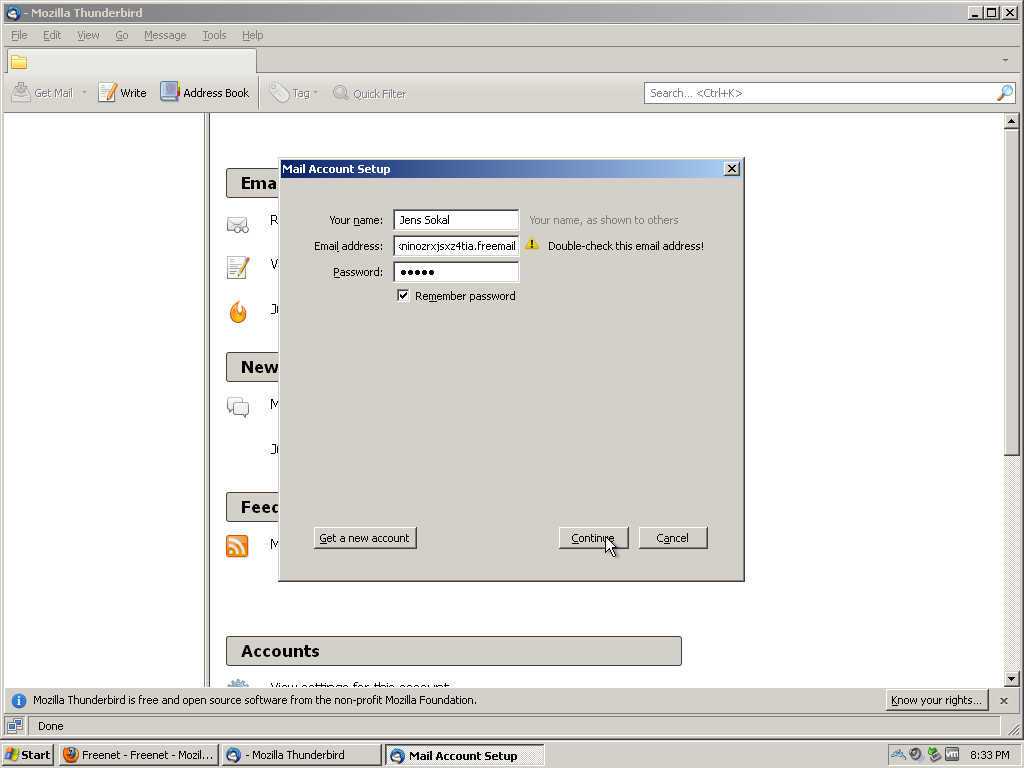
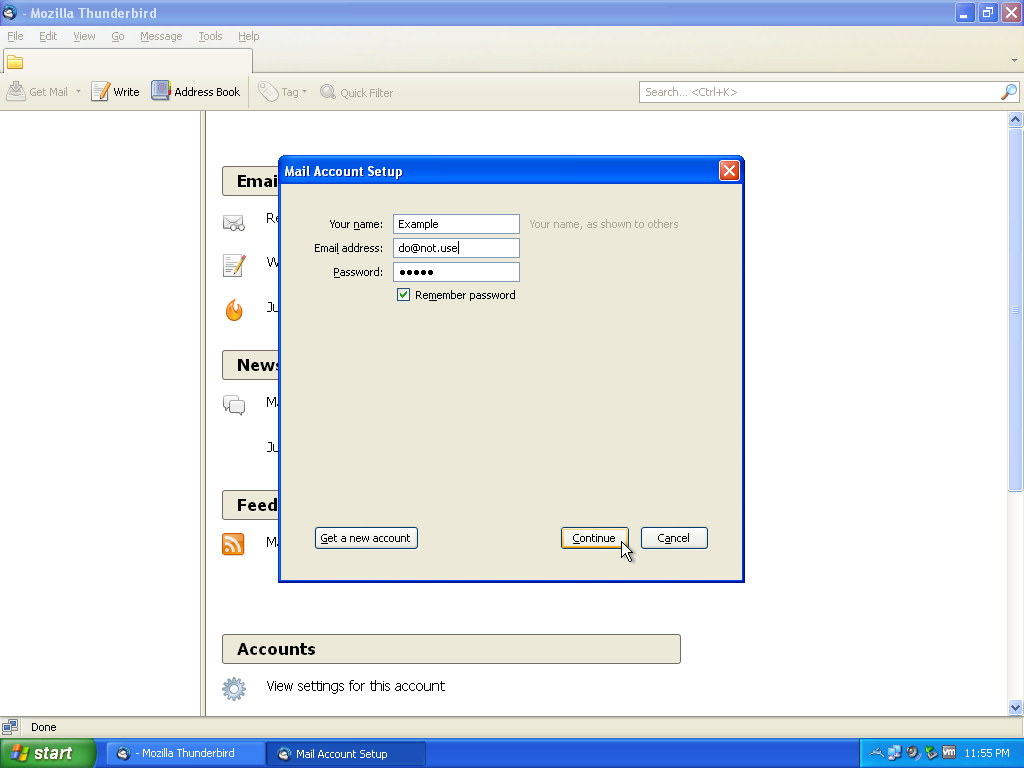
Rework Freemail setup to avoid leaking freemail address on open internet

diff --git a/freemail.html b/freemail.html
@@ -65,7 +65,7 @@
 		<li><p>Start by opening the Plugin configuration page.</p>
 			<p><a href="images/setup022.png"><img src="images/setup022.png" width="640" height="480" alt="Step 1" /></a></p>
 		</li>
-		<li><p>The version of Freemail used in this guide is newer than the official plugin included with Freenet 1409 so we need to install it as if it were an unofficial plugin.</p>
+		<li><p>The version of Freemail used in this guide is newer than the official plugin included with Freenet 1419 so we need to install it as if it were an unofficial plugin.</p>
 			<p>Copy the following text into the Plugin Key field and click 'Load'.
 			<pre>CHK@lIazySXUwRohUUcYD5ynh8IVA42SaiVLPsgHPHtk5Uc,3LKam0sxFEyZzdsiFlnkBpXPL0h1BPNCTjDbLQ~y9dw,AAIC--8/Freemail-0.2.2.jar</pre>
 			<p><a href="images/setup032.png"><img src="images/setup032.png" width="640" height="480" alt="Step 2" /></a></p>
@@ -95,22 +95,27 @@
 			<p>Click past this prompt to configure Thunderbird to access your Freemail account.</p>
 			<p><a href="images/setup039.png"><img src="images/setup039.png" width="640" height="480" alt="Step 1" /></a></p>
 		</li>
-		<li><p>Choose a name to display on your outgoing emails and enter the email addressed contained in your "Welcome to Freemail" message. Use the same password here as you choose in step of 5 the previous section and click 'Continue'.</p>
+		<li><p>At this point we need to be careful to avoid leaking your Freemail address. Thunderbird will attempt to find your email settings by DNS lookup and by sending your email address to their servers. This is desirable behavior when anonymity isn't a priority but in this case we must make sure your freemail address is not associated with your IP address.</p>
+			<p>Enter a <b><em>fake</em></b> name, email address and password in this window and click 'Continue'.</p>
+			<p>If you have it installed you can also configure Thunderbird to use Tor as a SOCKS proxy prior to setting up a mail account to prevent your Freemail address from being associated with your IP address.</p>
 			<p><a href="images/setup040.png"><img src="images/setup040.png" width="640" height="480" alt="Step 2" /></a></p>
 		</li>
 		<li><p>Thunderbird will try to automatically detect your mail server settings but it won't work.</p>
+			<p>Update the "Your name" and "Password" fields here, but leave the "Email address" field alone for now. Choose a name to display on your outgoing emails and enter the email addressed contained in your "Welcome to Freemail" message. Use the same password here as you choose in step of 5 the previous section.</p>
+			<p>Change the Server hostname, Port and Username fields as shown below and click 'Re-test'. The Username should be the Freemail address you received in step 7 of the previous section.</p>
 			<p><a href="images/setup041.png"><img src="images/setup041.png" width="640" height="480" alt="Step 3" /></a></p>
 		</li>
-		<li><p>Change the Server hostname, Port and Username fields as shown below and click 'Re-test'.</p>
+		<li>	<p>If you entered everything correctly Thunderbird will successfully detect the rest of the parameters. Click on 'Create Account' to continue.</p>
 			<p><a href="images/setup042.png"><img src="images/setup042.png" width="640" height="480" alt="Step 4" /></a></p>
 		</li>
-		<li><p>If you entered everything correctly Thunderbird will successfully detect the rest of the parameters. Click on 'Create Account' to continue.</p>
+		<li>	<p>This warning occurs because normally it's a bad idea to connect to a mail server over an insecure connection. Since this connection takes place on the localhost interface TLS is not necessary. Click on the checkbox and click 'Create Account' again.</p>
 			<p><a href="images/setup043.png"><img src="images/setup043.png" width="640" height="480" alt="Step 5" /></a></p>
 		</li>
-		<li><p>This warning occurs because normally it's a bad idea to connect to a mail server over an insecure connection. Since this connection takes place on the localhost interface TLS is not necessary. Click on the checkbox and click 'Create Account' again.</p>
+		<li>	<p>At this point you should see the Welcome email from your inbox. From now on you can do everything relating to your mail from Thunderbird just like any other email service. Just remember that your node must be running to use your Freemail account.</p>
+			<p>Before you start sending messages, however, access the Account Settings to correct your name and email address.</p>
 			<p><a href="images/setup044.png"><img src="images/setup044.png" width="640" height="480" alt="Step 6" /></a></p>
 		</li>
-		<li><p>At this point you should see the Welcome email from your inbox. From now on you can do everything relating to your mail from Thunderbird just like any other email service. Just remember that your node must be running to use your Freemail account.</p>
+		<li>	<p>Update the "Account Name", "Your Name" and "Email Address fields" to include the correct information for your account as shown:
 			<p><a href="images/setup045.png"><img src="images/setup045.png" width="640" height="480" alt="Step 7" /></a></p>
 		</li>
 		<li><p>If you ever plan to send messages with non-English characters there is a setting you should change to make sure that your messages display properly.</p>
